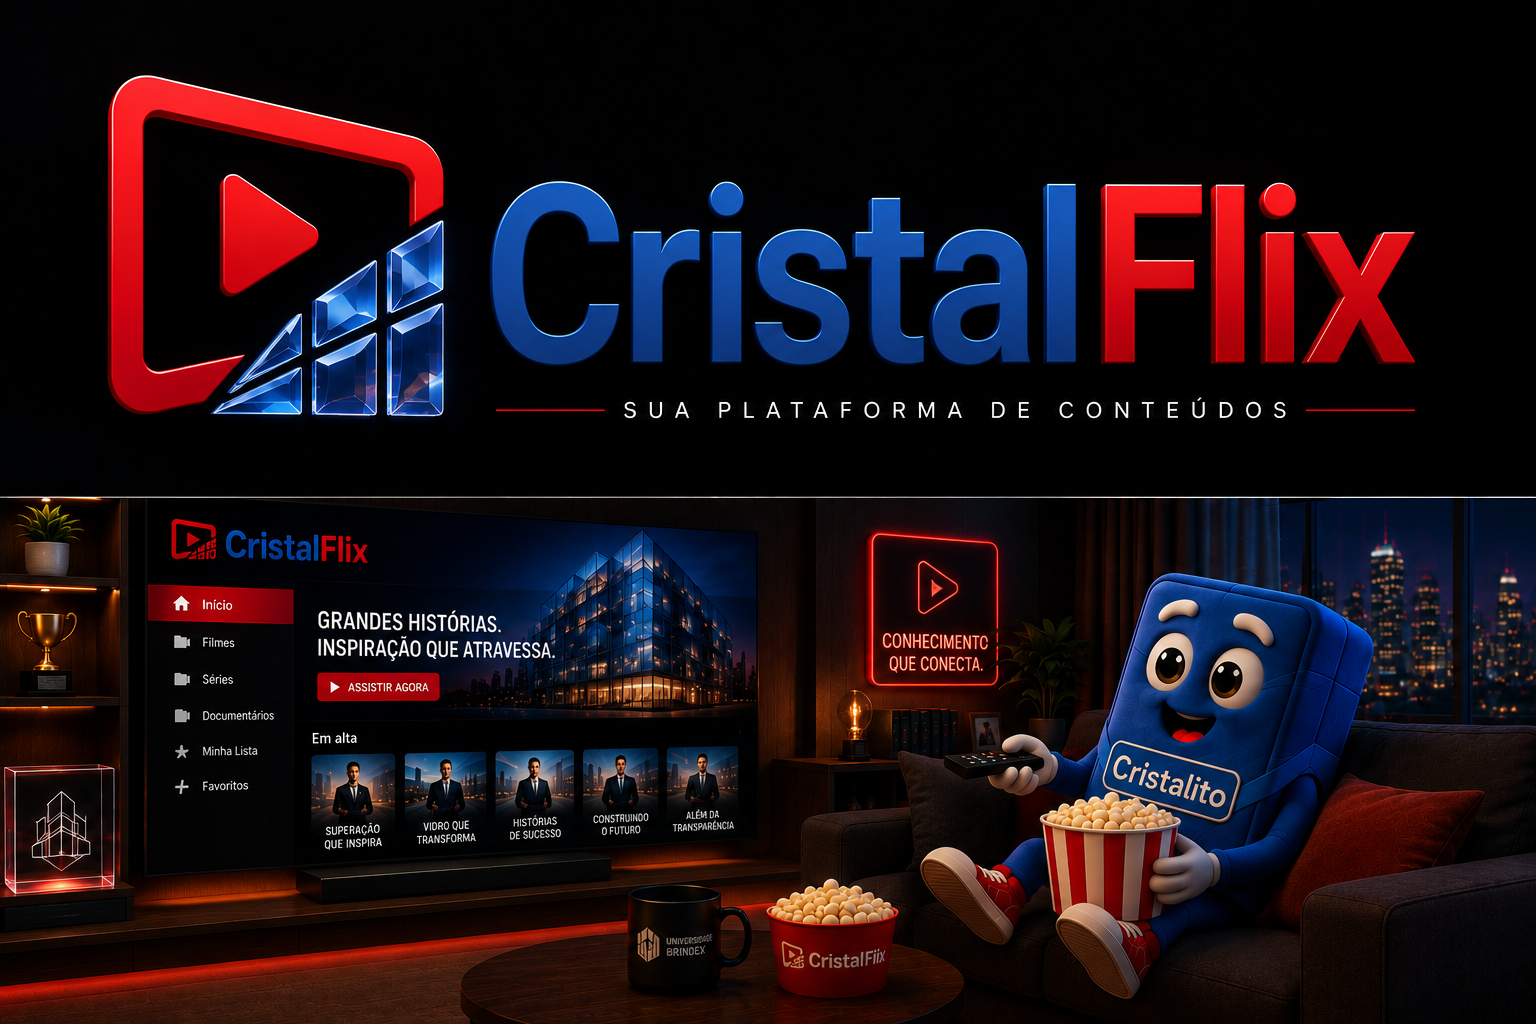
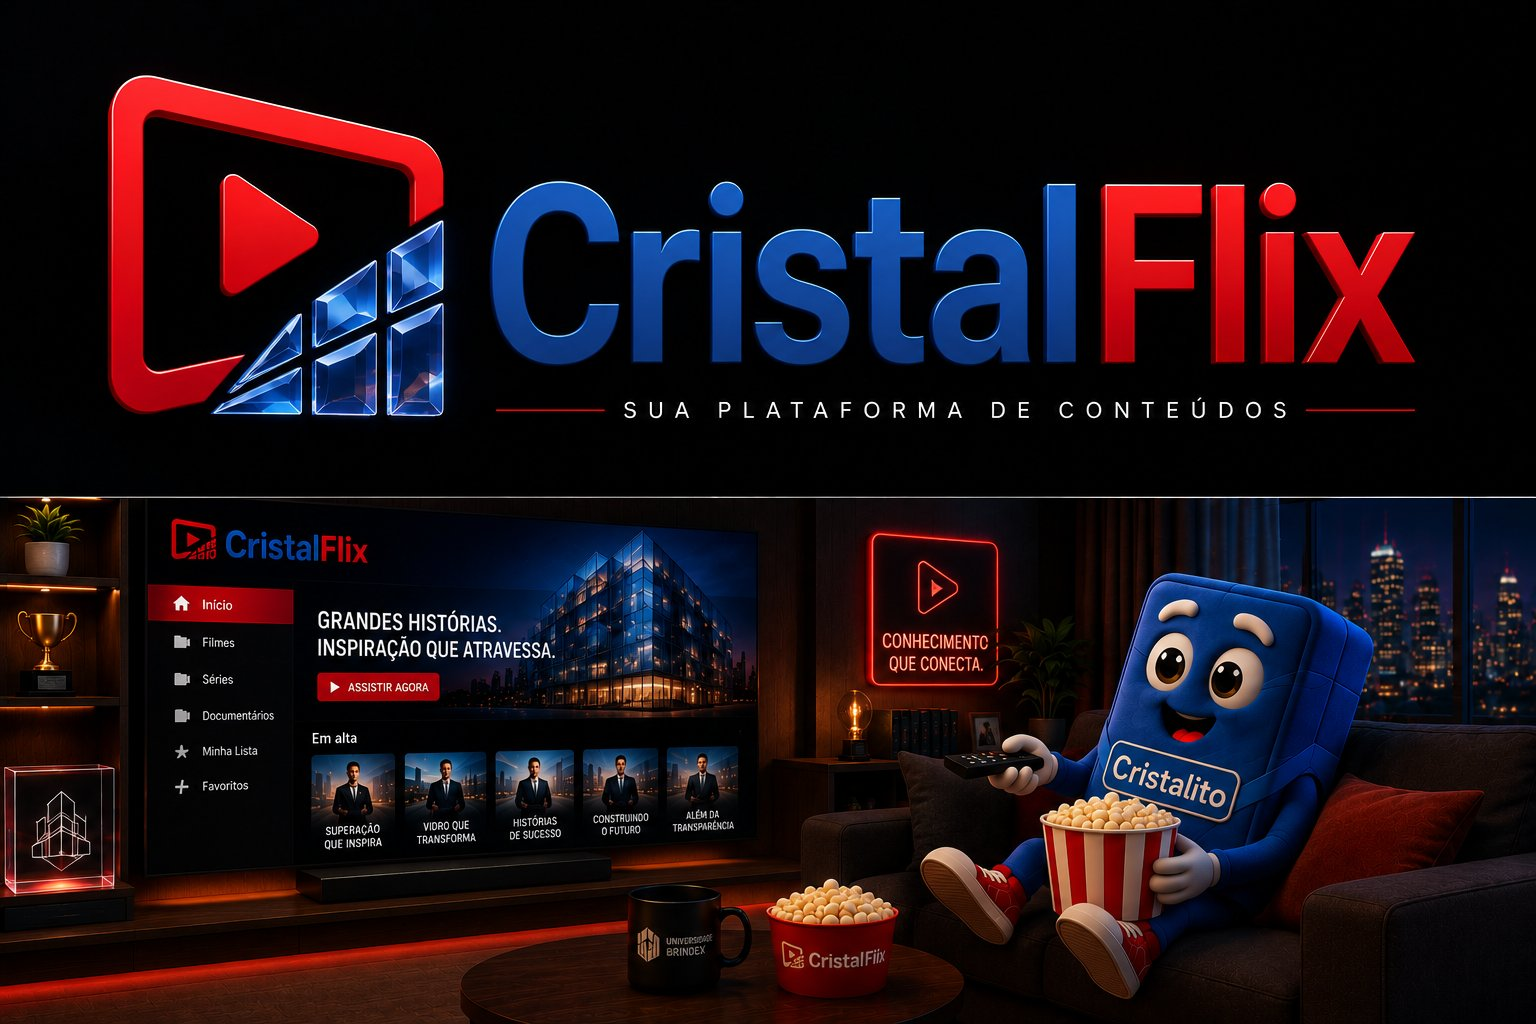
Cinema

diff --git a/cristalflix.html b/cristalflix.html
@@ -152,40 +152,20 @@
         
         .hero-banner {
             background: 
-                linear-gradient(to right, rgba(10,10,10,0.95) 0%, rgba(10,10,10,0.7) 50%, rgba(10,10,10,0.95) 100%),
-                url('assets/hero-cristalflix-bg.jpg') center/cover no-repeat;
+                linear-gradient(to right, rgba(10,10,10,0.4) 0%, rgba(10,10,10,0.2) 50%, rgba(10,10,10,0.4) 100%),
+                url('assets/cristalito-cinema.png') center/cover no-repeat;
             position: relative;
             overflow: hidden;
-            min-height: 500px;
+            min-height: 600px;
             display: flex;
             align-items: center;
-        }
-        
-        .hero-content {
-            position: relative;
-            z-index: 2;
-        }
-        
-        .hero-mascot {
-            position: absolute;
-            right: 80px;
-            top: 50%;
-            transform: translateY(-50%);
-            max-width: 350px;
-            z-index: 3;
-            opacity: 0.95;
-            filter: drop-shadow(0 10px 30px rgba(0,0,0,0.5));
+            background-position: center center;
         }
         
         @media (max-width: 1024px) {
             .hero-banner {
-                background-position: 30% center;
-            }
-            
-            .hero-mascot {
-                opacity: 0.3;
-                right: 20px;
-                max-width: 250px;
+                min-height: 500px;
+                background-position: center center;
             }
         }
         
@@ -234,43 +214,38 @@
     <!-- HERO BANNER -->
     <section class="hero-banner py-20 px-4">
         <div class="container mx-auto max-w-7xl">
-            <div class="flex items-center justify-between">
-                <div class="hero-content max-w-2xl">
-                    <div class="flex items-center gap-3 mb-4">
-                        <svg class="w-12 h-12 text-red-500" fill="currentColor" viewBox="0 0 24 24">
-                            <path d="M12 2C6.48 2 2 6.48 2 12s4.48 10 10 10 10-4.48 10-10S17.52 2 12 2zm-2 14.5v-9l6 4.5-6 4.5z"/>
-                        </svg>
-                        <h1 class="text-5xl md:text-6xl font-bold">CristalFlix</h1>
-                    </div>
-                    
-                    <p class="text-xl text-gray-300 mb-8">
-                        Sua plataforma de vídeos de treinamento da Universidade Cristal Sete
-                    </p>
-                    
-                    <div class="flex gap-4 flex-wrap">
-                        <div class="feature-badge bg-blue-600">
-                            <svg class="w-5 h-5" fill="currentColor" viewBox="0 0 20 20">
-                                <path d="M2 6a2 2 0 012-2h6a2 2 0 012 2v8a2 2 0 01-2 2H4a2 2 0 01-2-2V6zM14.553 7.106A1 1 0 0014 8v4a1 1 0 00.553.894l2 1A1 1 0 0018 13V7a1 1 0 00-1.447-.894l-2 1z"/>
-                            </svg>
-                            19 Vídeos
-                        </div>
-                        <div class="feature-badge bg-gray-700">
-                            <svg class="w-5 h-5" fill="currentColor" viewBox="0 0 20 20">
-                                <path fill-rule="evenodd" d="M10 18a8 8 0 100-16 8 8 0 000 16zm1-12a1 1 0 10-2 0v4a1 1 0 00.293.707l2.828 2.829a1 1 0 101.415-1.415L11 9.586V6z" clip-rule="evenodd"/>
-                            </svg>
-                            Aprenda no seu ritmo
-                        </div>
-                        <div class="feature-badge bg-gray-700">
-                            <svg class="w-5 h-5" fill="currentColor" viewBox="0 0 20 20">
-                                <path fill-rule="evenodd" d="M10 18a8 8 0 100-16 8 8 0 000 16zm3.707-9.293a1 1 0 00-1.414-1.414L9 10.586 7.707 9.293a1 1 0 00-1.414 1.414l2 2a1 1 0 001.414 0l4-4z" clip-rule="evenodd"/>
-                            </svg>
-                            Continue de onde parou
-                        </div>
-                    </div>
+            <div class="hero-content max-w-2xl">
+                <div class="flex items-center gap-3 mb-4">
+                    <svg class="w-12 h-12 text-red-500" fill="currentColor" viewBox="0 0 24 24">
+                        <path d="M12 2C6.48 2 2 6.48 2 12s4.48 10 10 10 10-4.48 10-10S17.52 2 12 2zm-2 14.5v-9l6 4.5-6 4.5z"/>
+                    </svg>
+                    <h1 class="text-5xl md:text-6xl font-bold text-white drop-shadow-lg">CristalFlix</h1>
                 </div>
                 
-                <!-- CRISTALITO NO CINEMA -->
-                <img src="assets/cristalito-cinema.png" alt="Cristalito no Cinema" class="hero-mascot hidden lg:block">
+                <p class="text-xl text-white mb-8 drop-shadow-md">
+                    Sua plataforma de vídeos de treinamento da Universidade Cristal Sete
+                </p>
+                
+                <div class="flex gap-4 flex-wrap">
+                    <div class="feature-badge bg-blue-600">
+                        <svg class="w-5 h-5" fill="currentColor" viewBox="0 0 20 20">
+                            <path d="M2 6a2 2 0 012-2h6a2 2 0 012 2v8a2 2 0 01-2 2H4a2 2 0 01-2-2V6zM14.553 7.106A1 1 0 0014 8v4a1 1 0 00.553.894l2 1A1 1 0 0018 13V7a1 1 0 00-1.447-.894l-2 1z"/>
+                        </svg>
+                        19 Vídeos
+                    </div>
+                    <div class="feature-badge bg-gray-700">
+                        <svg class="w-5 h-5" fill="currentColor" viewBox="0 0 20 20">
+                            <path fill-rule="evenodd" d="M10 18a8 8 0 100-16 8 8 0 000 16zm1-12a1 1 0 10-2 0v4a1 1 0 00.293.707l2.828 2.829a1 1 0 101.415-1.415L11 9.586V6z" clip-rule="evenodd"/>
+                        </svg>
+                        Aprenda no seu ritmo
+                    </div>
+                    <div class="feature-badge bg-gray-700">
+                        <svg class="w-5 h-5" fill="currentColor" viewBox="0 0 20 20">
+                            <path fill-rule="evenodd" d="M10 18a8 8 0 100-16 8 8 0 000 16zm3.707-9.293a1 1 0 00-1.414-1.414L9 10.586 7.707 9.293a1 1 0 00-1.414 1.414l2 2a1 1 0 001.414 0l4-4z" clip-rule="evenodd"/>
+                        </svg>
+                        Continue de onde parou
+                    </div>
+                </div>
             </div>
         </div>
     </section>
